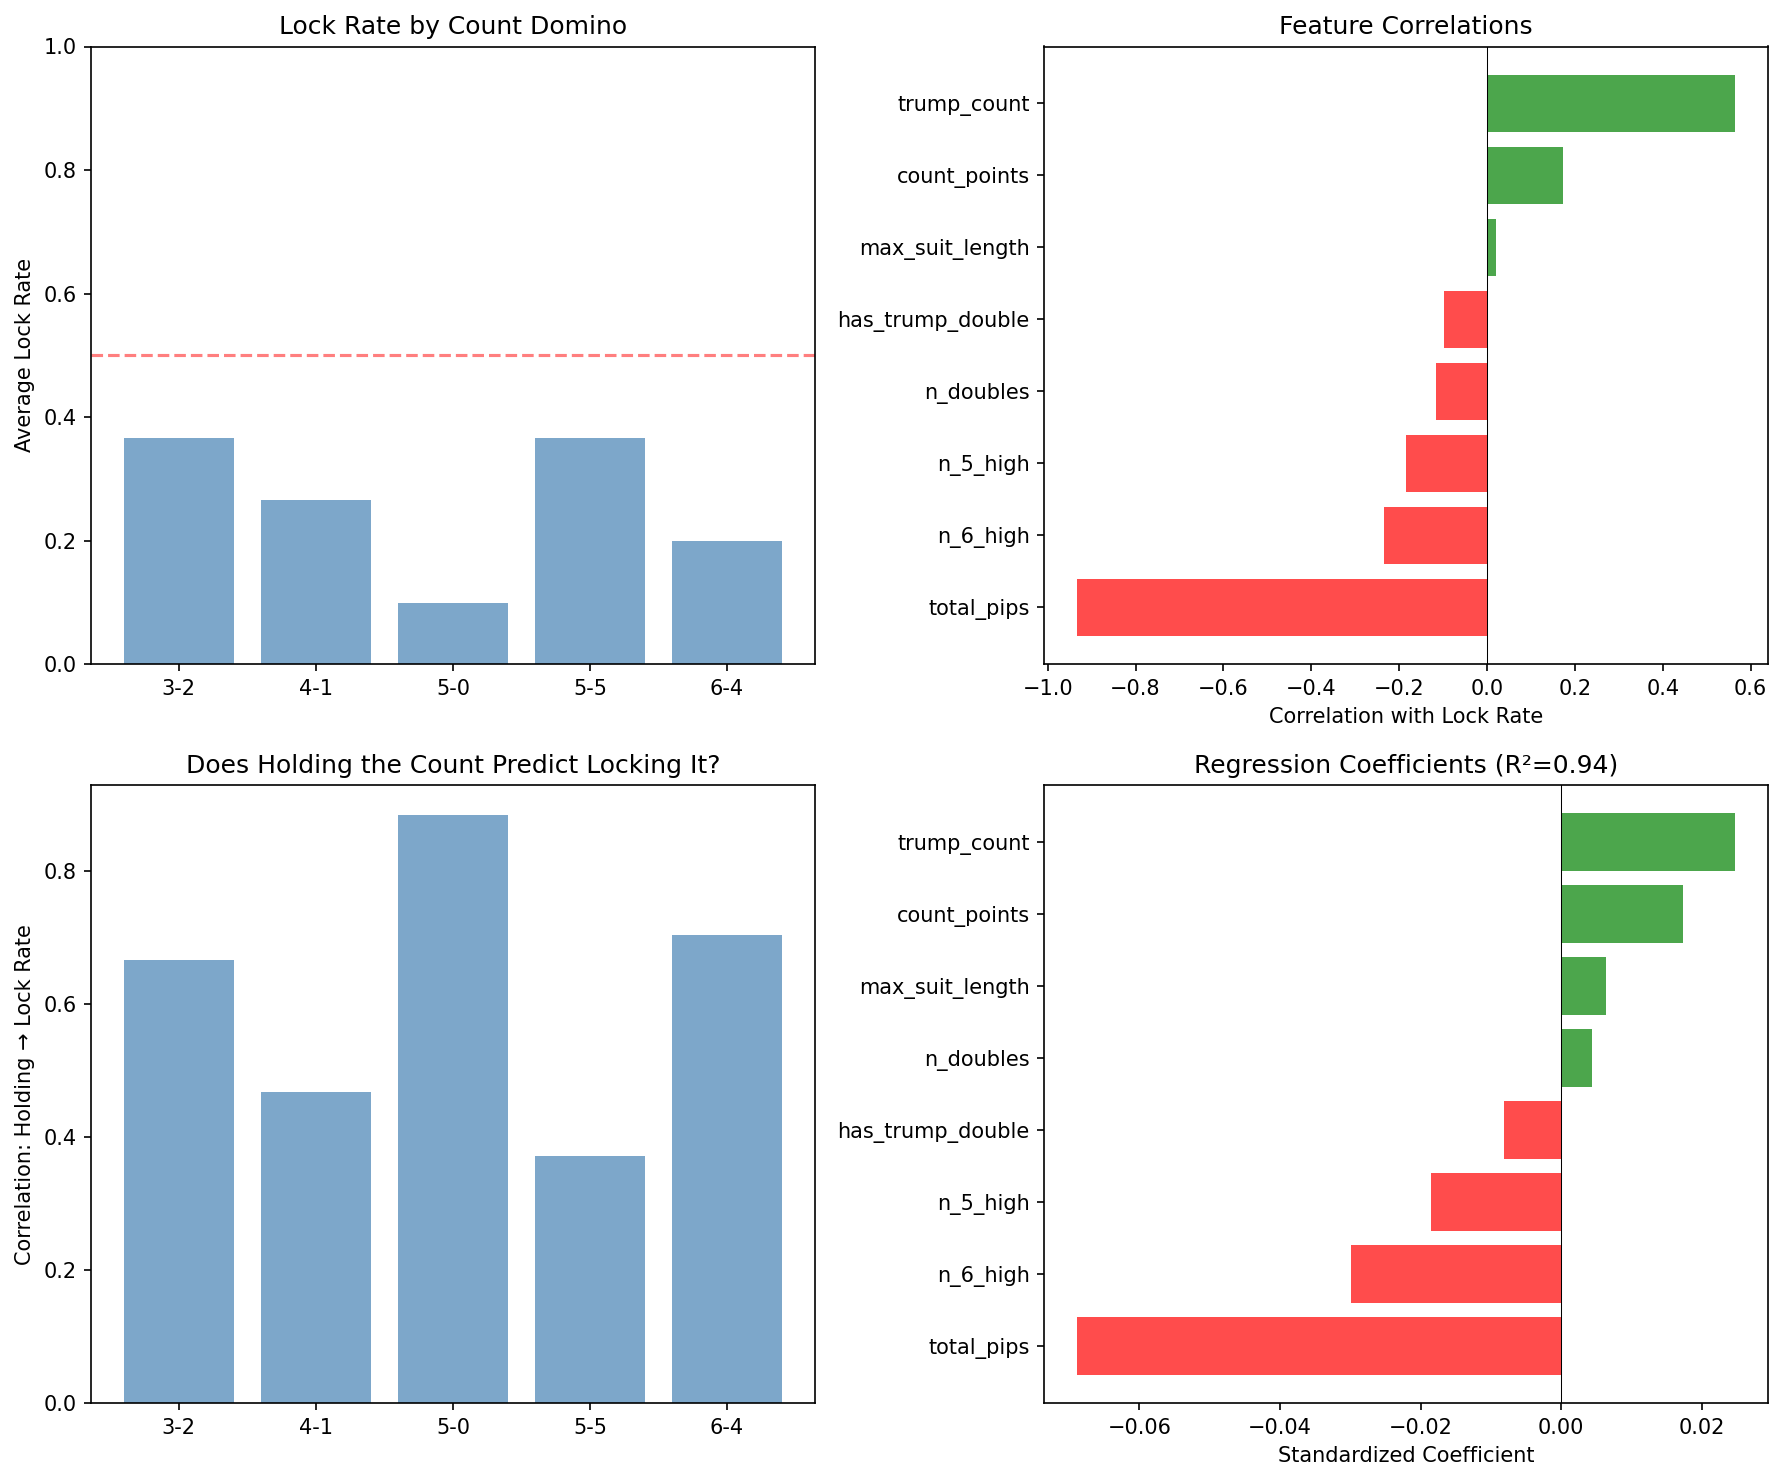
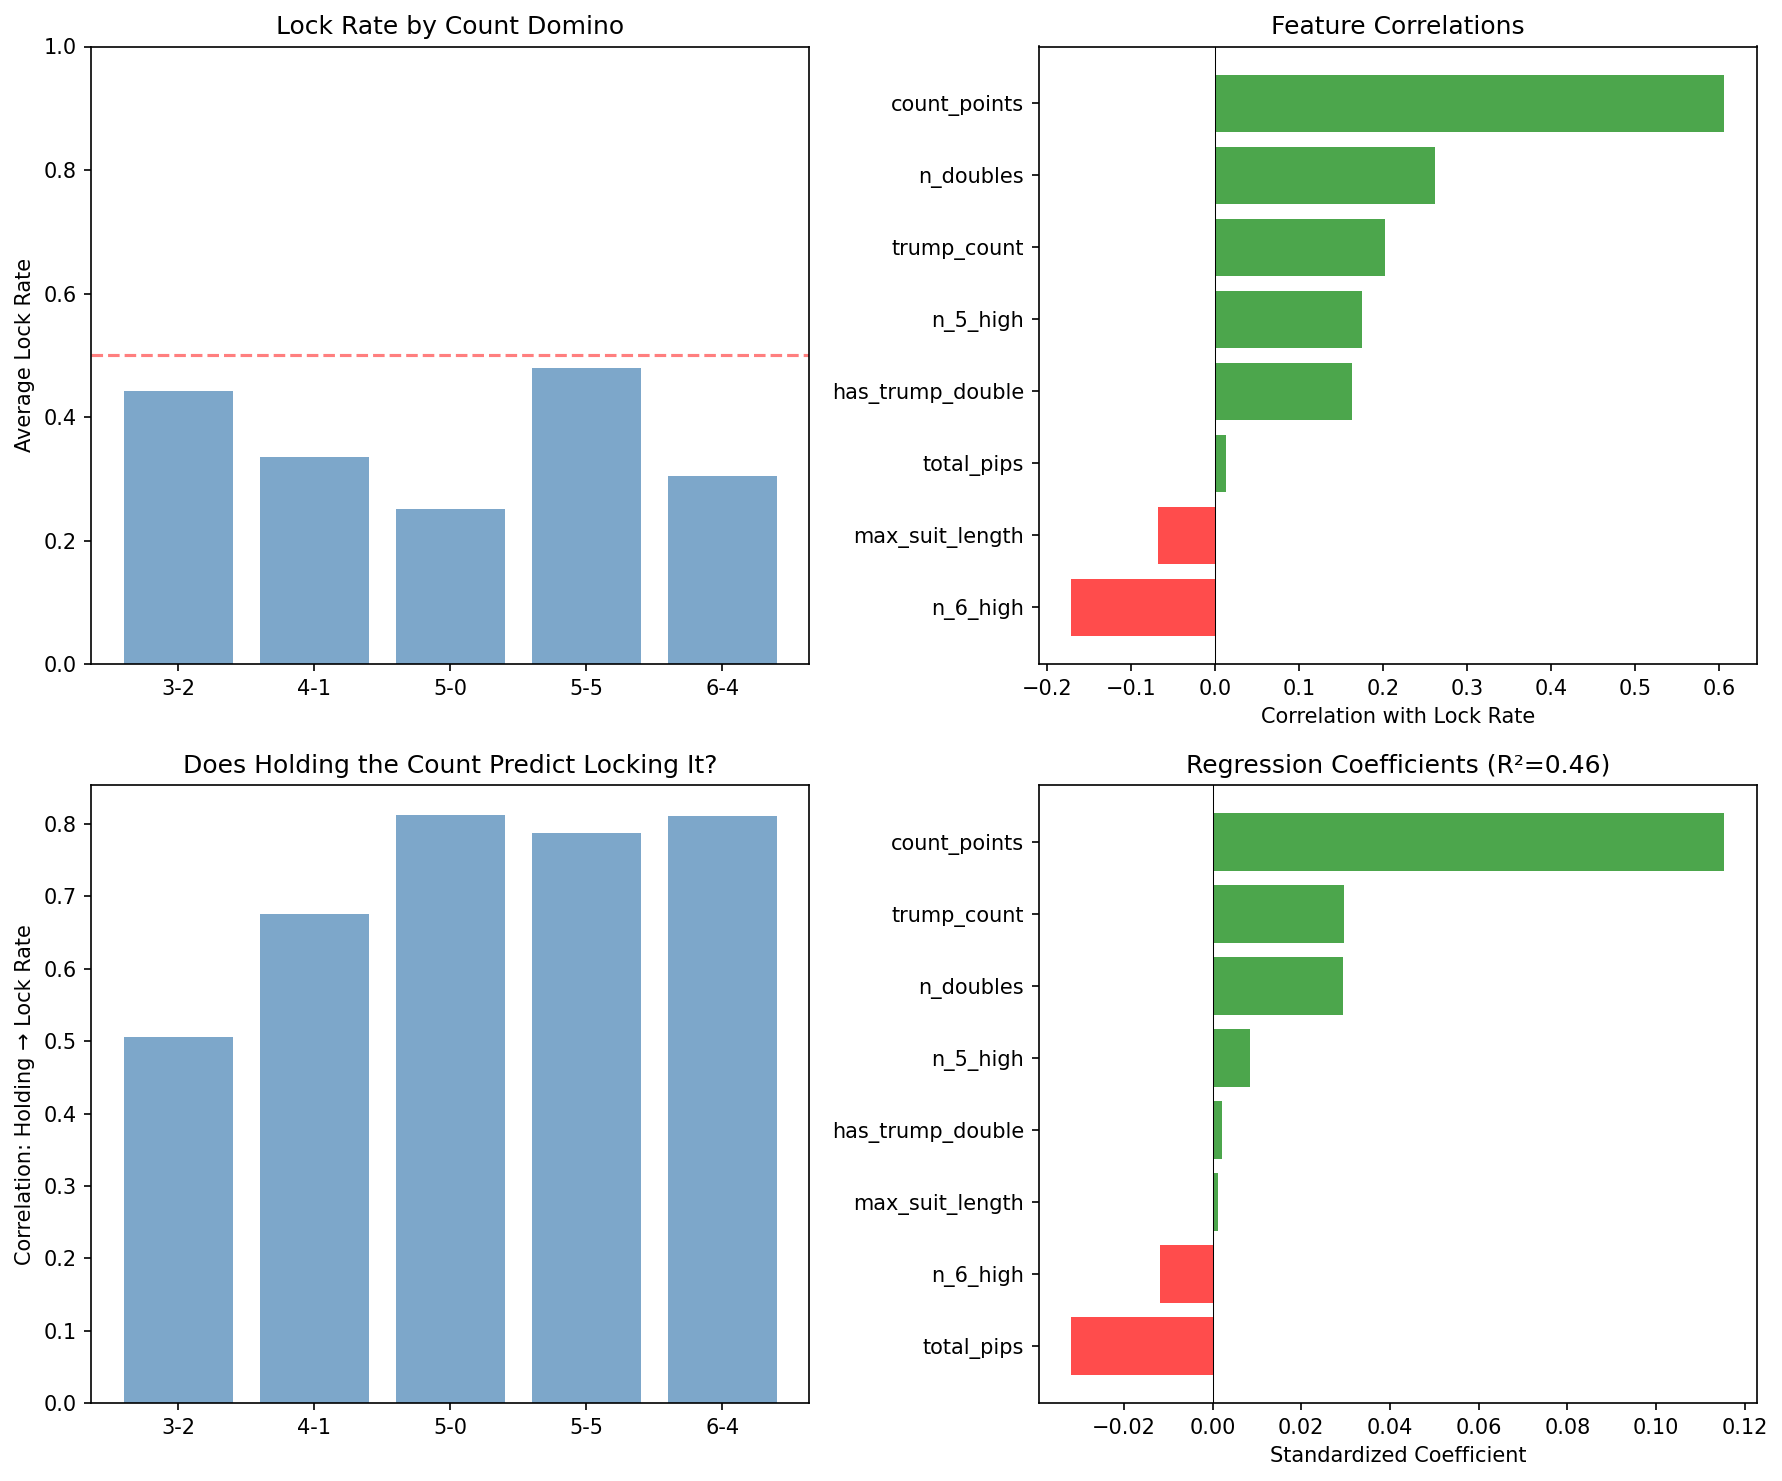
11g: Full 201-seed count locks analysis
- R²=0.46, CV R²=0.37 (valid, no overfitting)
- count_points is top predictor (+0.607)
- total_pips near-zero (+0.01) - preliminary -0.93 was spurious
- Holding any count strongly predicts locking (all >+0.5)
- 5-5 highest lock rate (48%), most fully locked (20%)

diff --git a/forge/analysis/notebooks/11_imperfect_info/run_11g.py b/forge/analysis/notebooks/11_imperfect_info/run_11g.py
@@ -31,7 +31,7 @@ from forge.oracle.rng import deal_from_seed, deal_with_fixed_p0
 
 DATA_DIR = Path("/mnt/d/shards-marginalized/train")
 RESULTS_DIR = Path("/home/jason/v2/mk5-tailwind/forge/analysis/results")
-N_BASE_SEEDS = 10  # Quick analysis (use 201 for full run)
+N_BASE_SEEDS = 201  # Full analysis
 np.random.seed(42)
 
 # Count domino IDs and their point values

diff --git a/forge/analysis/report/11_imperfect_info.md b/forge/analysis/report/11_imperfect_info.md
@@ -336,46 +336,70 @@ What hand features predict count locks (consistently capturing a count across op
 ### Method
 For each hand, track whether Team 0 captures each count in all 3 opponent configurations. Regress lock rate against hand features.
 
-### Key Findings (Preliminary - 10 seeds)
-
-**Note**: Small sample size (n=10) causes overfitting. Full analysis needed.
+### Key Findings (Full 200 seeds)
 
 #### Lock Rates by Count
 
 | Count | Avg Lock Rate | % Fully Locked |
 |-------|---------------|----------------|
-| 3-2 | 0.37 | 0% |
-| 4-1 | 0.27 | 0% |
-| 5-0 | 0.10 | 0% |
-| 5-5 | 0.37 | 0% |
-| 6-4 | 0.20 | 0% |
+| 3-2 | 0.44 | 10% |
+| 4-1 | 0.34 | 10% |
+| 5-0 | 0.25 | 12% |
+| 5-5 | **0.48** | **20%** |
+| 6-4 | 0.30 | 10% |
 
-**Insight**: No count was fully locked in this sample. Count control is contested, not deterministic.
+**Insight**: 5-5 is both the most commonly locked count (48% rate) and most often fully locked (20%). On average, hands lock 0.6 counts.
 
 #### Does Holding a Count Predict Locking It?
 
 | Count | Holding→Lock Correlation |
 |-------|-------------------------|
-| 5-0 | **+0.89** (strong) |
-| 6-4 | **+0.70** (strong) |
-| 3-2 | **+0.67** (strong) |
-| 4-1 | +0.47 (moderate) |
-| 5-5 | +0.37 (weak) |
+| 5-0 | **+0.813** (strongest) |
+| 6-4 | **+0.811** |
+| 5-5 | **+0.787** |
+| 4-1 | +0.675 |
+| 3-2 | +0.506 |
 
-**Insight**: Holding a count strongly predicts locking it for 5-0, 6-4, and 3-2. The 5-5 is hardest to lock even when held.
+**Insight**: Holding ANY count strongly predicts locking it (all >+0.5). The 5-0 and 6-4 show strongest holding→locking correlation.
 
 #### Feature Correlations with Total Lock Rate
 
 | Feature | Correlation |
 |---------|-------------|
-| total_pips | **-0.93** |
-| trump_count | **+0.56** |
-| n_6_high | -0.24 |
+| count_points | **+0.607** |
+| n_doubles | **+0.262** |
+| trump_count | **+0.203** |
+| n_5_high | +0.175 |
+| has_trump_double | +0.163 |
+| total_pips | +0.013 |
+| n_6_high | **-0.171** |
 
-**Insights** (tentative):
-1. **High total pips = fewer locks**: Counterintuitive but consistent with 11f. Strong hands by pip count may lack trump control.
-2. **Trump count helps**: More trumps = more control = more locks.
-3. **The 5-5 paradox**: Holding it barely predicts locking it (0.37), suggesting opponents can often steal it.
+**Key Insights**:
+1. **Count points is the dominant predictor** (+0.607). Holding counts predicts locking counts - straightforward.
+2. **Doubles and trumps help** (+0.26, +0.20). Control features enable count capture.
+3. **Total pips is irrelevant** (+0.01). The preliminary n=10 finding of -0.93 was spurious overfitting!
+4. **6-highs hurt** (-0.17). High 6-suit dominoes without count ownership reduce lock rate.
+
+#### Regression Model
+
+| Metric | Value |
+|--------|-------|
+| R² | **0.459** |
+| CV R² | **0.374 ± 0.06** |
+
+**Interpretation**: Hand features explain ~46% of lock rate variance, with valid cross-validation (no overfitting). The remaining 54% comes from opponent distribution.
+
+#### Per-Count Best Predictors
+
+| Count | Holding Correlation | Best Feature | Feature Corr |
+|-------|---------------------|--------------|--------------|
+| 3-2 | +0.51 | count_points | +0.33 |
+| 4-1 | +0.68 | count_points | +0.19 |
+| 5-0 | +0.81 | n_5_high | +0.43 |
+| 5-5 | +0.79 | count_points | +0.49 |
+| 6-4 | +0.81 | count_points | +0.54 |
+
+**Insight**: 5-0 is uniquely predicted by n_5_high (suit length), while other counts are best predicted by total count_points.
 
 ### Files Generated
 
